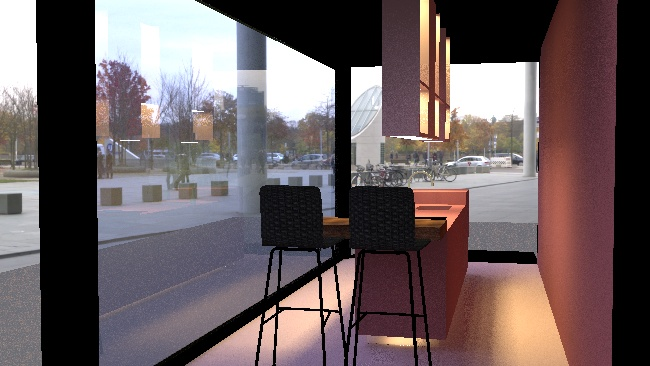
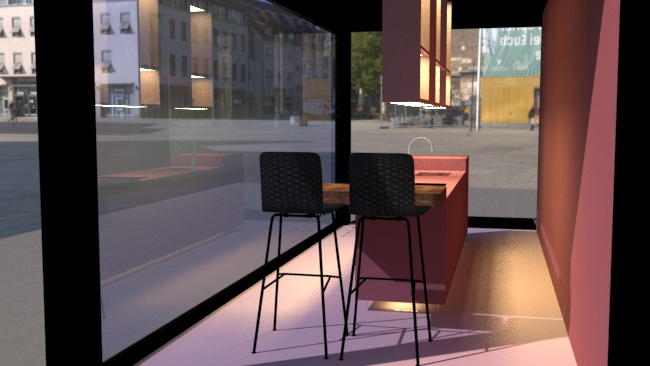
project kitchen

diff --git a/src/styles/theme.ts b/src/styles/theme.ts
@@ -118,10 +118,11 @@ ul {
 
 p {
   margin-top: 1.4rem;
-  font-weight: 200;
+  font-weight: 300;
   margin-bottom: 1.4rem;
   padding-right: 0;
   vertical-align: baseline;
+  text-align: justify;
 }
 
 blockquote {
@@ -279,6 +280,13 @@ const customeStyles = () => `
 }
 .more_details___link {
   font-size: 1.2em;
+}
+.gallery__row{
+  margin-bottom: 2em;
+}
+.gallery__row__column{
+  padding-left: 1em;
+  padding-right: 1em;
 }
 `
 export const GlobalStyle = createGlobalStyle`

diff --git a/src/pages/index.tsx b/src/pages/index.tsx
@@ -72,7 +72,7 @@ export const pageQuery = graphql`
     ) {
       edges {
         node {
-          excerpt(pruneLength: 300)
+          excerpt(pruneLength: 150)
           fields {
             slug
           }

diff --git a/src/templates/projects.tsx b/src/templates/projects.tsx
@@ -107,7 +107,7 @@ export const pageQuery = graphql`
       html
       frontmatter {
         title
-        date(formatString: "MMMM DD, YYYY")
+        date(formatString: "MMMM, YYYY")
       }
     }
   }

diff --git a/src/projects/project1.md b/src/projects/project1.md
@@ -1,34 +1,41 @@
 ---
-title: Ejemplo de markdown para proyecto
-date: '2020-01-20'
+title: Showroom
+date: '2019-04'
 published: true
 layout: projects
-images: ['project1_featured.jpg']
+images: ['perspectiva_3.jpg']
 slug: '/project1'
 ---
+<div class="gallery">
+    <div class="row justify-content-center gallery__row">
+        <div class="col-md-5 gallery__row__column">
+          <img alt="01" src="../images/project1/interior_derecho.jpg" />
+        </div>
+        <div class="col-md-5 gallery__row__column">
+          <img alt="01" src="../images/project1/interior_izquierdo.jpg" />
+        </div>
+    </div>
+    <div class="row justify-content-center gallery__row">
+        <div class="col-md-5 gallery__row__column">
+          <img alt="01" src="../images/project1/vista_interior_2.jpg" />
+        </div>
+        <div class="col-md-5 gallery__row__column">
+          <img alt="01" src="../images/project1/vista_interior.jpg" />
+        </div>
+    </div>
+    <div class="row justify-content-center gallery__row">
+        <div class="col-md-5 gallery__row__column">
+          <img alt="01" src="../images/project1/vista_frontal_2.jpg" />
+        </div>
+        <div class="col-md-5 gallery__row__column">
+          <img alt="01" src="../images/project1/vista_perspectiva.jpg" />
+        </div>
+    </div>
+</div>
 
-![](../images/project1/interior_derecho.jpg) ![](../images/project1/interior_derecho.jpg)
+Este proyecto consiste en proyectar y distribuir un espacio de exposición (showroom) a una feria para una casa de cocinas, de 18 m2. La función del ambiente construido será la de cocina-comedor de un prototipo  de vivienda de dimensiones reducidas.
 
+El concepto que quería reflejar en este proyecto es principalmente el estilo minimalista, utilizando elementos mínimos y básicos. Simplificando todo a lo esencial,  eliminando cualquier elemento sobrante y poder generar en la gente una experiencia, un sentido a partir de lo mínimo. Por eso utilizo colores puros y líneas simples, dándole mucho protagonismo  al color.
 
-![](../images/project1/interior_derecho.jpg) ![](../images/project1/interior_derecho.jpg)
-
-
-Aquí se escribe lo que vaya a ir en el proyecto
-
-1. Se le puede dar formato usando *markdown*
-2. SE puede añadir imagenes
-3. You can include syntax highlighted code
-
-#La forma de escribir
-##subtitulos
-###mas pequeño
-
-ahora lo miro esto es texto normal. <br/>
-linea en vlaco
-
-
-
-
-```js
-console.log(`Hello world, 1 + 1 = ${1 + 1}`);
-```
+Para este proyecto elegí los muebles de la casa Lago, ya que me parecen muy interesantes estéticamente y era lo que buscaba para cumplir con el concepto y la idea del proyecto.
+El modelo que elegí  es la Cocina 36e8 ya que tiene un estilo minimalista, sus muebles aligeran la percepción de estorbos de las cocinas tradicionales
